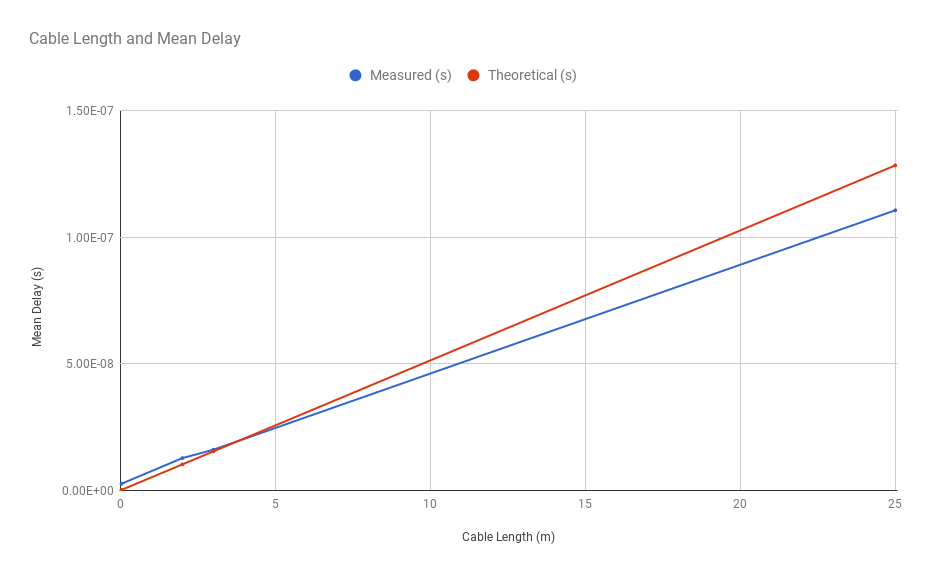
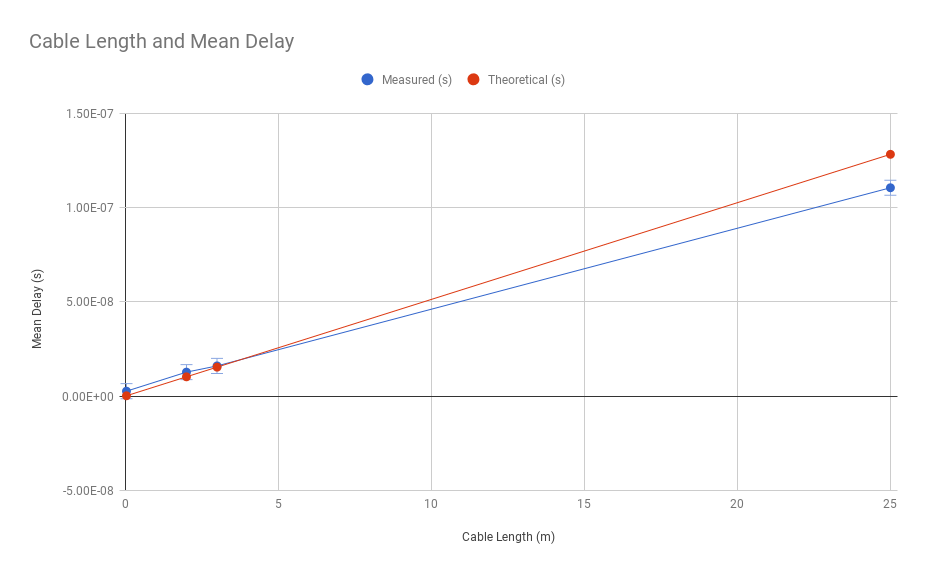
Redid evaluation

diff --git a/Report/Final/evaluation.tex b/Report/Final/evaluation.tex
@@ -1,62 +1,108 @@
 \chapter{Evaluation}\label{C:eval}
 
 \section{Accuracy Testing}
-\par To test the accuracy of the device, a loopback test was performed with different length of cables. This was 
-setup so that there was no switch between two ethernet measurement ports, only an ethernet cable. The test is to 
-ensure that the device is measuring the latency correctly, and able to detect the latency present in a specific 
-length of cable. Latency measured from the device can be compared with the theoretical value of the latency which 
-can be calculated using the following formula:
 
-\[Latency = \frac{L}{cV_f}\]
+The aim for the following tests is to assess how accurate the device is. For a device to be useful, it needs to be 
+able to measure latency with both accuracy and precision. Precision is the difference between repeated tests and 
+this is limited by the clock cycles provided to the timing module. Accuracy is how close the measured value is to 
+the theoretical value and dependant on the filtering and post processing done with the data received by the timing 
+module. 
 
-\par Where L is the length of the cable, c is the speed of light (299,792,458 m/s) and V\textsubscript{f} is 
-velocity factor of ethernet cables (0.65). 
-
-\par A very short cable (4 cm) was used to measure the processing time, a constant added to every measurement. 
-This processing time is the result of both Ethernet Phy’s converting between the two protocols (Differential Pairs 
-and RGMII). Performing measurements with the short cable produced a mean value of 440 ns where 0.2095 ns of the 
-measurement is attributed to the delay present in the cable.
-
-\par This processing time is then removed from subsequent tests, making the latency values produced by the device 
-purely the latency present in the cable. The goal from the tests is to ensure that the device is accurate to within
-4 ns, which is the smallest interval of time that can be measured.
-
-\par Tests were done with cables spanning 2 m, 3 m and 25 m long. These provided enough of a delay to measure with the
-device, and enough data to characterise the accuracy of what cables are used. The measured value was plotted with 
-the theoretical values of what delay would be present in the cable. To obtain the delay measurement, the test was 
-run for 20 seconds on the device, with a packet transmission frequency of 500 packets per second. The mean value
-of all packet latency measurements for that cable were then plotted versus the length of the cable.
+The results are expected to be the same over different tests, as the same cable will be used for each packet sent. 
+The latency should increase linearly with the length of the cable, as the speed of light and velocity factor is 
+constant.
 
 \begin{figure}[H]
     \begin{center}
-        \includegraphics[keepaspectratio,width=15cm]{Images/CableTesting}
-        \caption{Results from Accuracy Measurements}
-        \label{fig:accuracyMeasurements}
+        \includegraphics[keepaspectratio,height=8.5cm]{Images/TestSetup}
+        \caption{Measurement setup for 4 different tests (4 cm, 3 m, 25 m and 2 m)}
+        \label{fig:testSetup}
     \end{center}
 \end{figure}
 
-\par As shown in ~\ref{fig:accuracyMeasurements}, the results from the device show a linear trend in latency due to 
-length of the cable. The gradient difference of the theoretical line can be attributed to the fluctuation in 
-velocity factor through the different cables.
+To test the accuracy of the device, a loopback test was performed with different length of cables. This was setup so 
+that there was no switch between two ethernet measurement ports, only an ethernet cable. The test is to ensure that 
+the device is measuring the latency correctly, and able to detect the latency present in a specific length of cable. 
+Latency measured from the device can be compared with the theoretical value of the latency which can be calculated 
+using the following formula:
 
-\par The difference between the theoretical and measured value of the 25 m cable was 14 ns. This is not within the 
-accuracy margin which was required, hence 2 m and 3 m cables are used for the reliablity tests as the difference was below 2 ns.
+\[ Latency = \frac{L}{cV_f} \] 
+
+Where L is the length of the cable, c is the speed of light (299,792,458 m/s) and V\textsubscript{f} is velocity 
+factor of ethernet cables (0.65 (REFERENCE HERE)).
+
+A very short cable (4 cm) was used to measure the processing time, a constant added to every measurement. This 
+processing time is the result of both Ethernet Phys converting between the two protocols (Differential Pairs and 
+RGMII). A short cable produces an immeasurable latency which is beyond the precision of the device, deducing that 
+the latency measured from this test would be because of the constant processing on board the device. Performing 
+measurements with the short cable produced a mean value of 440 ns where 0.2095 ns of the measurement is attributed 
+to the delay present in the cable (5\% of the precision of the device). 
+
+This processing time is then removed from subsequent tests, making the latency values produced by the device purely 
+the latency present in the cable. The goal from the tests is to ensure that the device is accurate to within 4 ns, 
+which is the smallest interval of time that can be measured. 
+
+Tests were done with cables spanning 2 m, 3 m and 25 m long. These provided enough of a delay to measure with the 
+device and enough data to characterise latency present in the cables. The measured value was plotted with the 
+theoretical values of what delay would be present in the cable. To obtain the delay measurement, the test was run 
+for 20 seconds on the device, with a packet transmission frequency of 500 packets per second. The mean value of all 
+packet latency measurements for that cable were then plotted versus the length of the cable.
+
+\begin{figure}[H]
+    \begin{center}
+        \includegraphics[keepaspectratio,height=7.5cm]{Images/CableTesting}
+        \caption{Results from FPGA device latency accuracy measurements with 0.65 Velocity Factor}
+        \label{fig:cableTesting}
+    \end{center}
+\end{figure}
+
+As shown in Figure \ref{fig:cableTesting}, the results from the device show a linear trend in latency due to length 
+of the cable. The velocity factor was obtained from (CITE HERE) and a change in velocity factor could be a factor 
+for the discrepancies found in the gradients. The values have an error of ±4 ns as the points fluctuated above and 
+below a certain value and the average was plotted. There were no outliers during testing, showing how the device is 
+not prone to producing wildly different results.
+
+\begin{figure}[H]
+    \begin{center}
+        \includegraphics[keepaspectratio,height=7.5cm]{Images/CableTesting075}
+        \caption{Results from FPGA device latency accuracy measurements with 0.75 Velocity Factor}
+        \label{fig:cableTesting075}
+    \end{center}
+\end{figure}
+
+An interesting point in Figure \ref{fig:cableTesting} is that the 25 m measurement was less than the theoretical 
+value. The velocity factor appears to be the main cause of this difference, as the speed of light cannot change and 
+different cables tend to have different velocity factors and this is shown in Figure \ref{fig:cableTesting075}. With 
+the velocity factor altered to 0.75, this makes device appear more accurate. The standard deviation of the 25 m test 
+is 2.4 ns, with a range of 8 ns.
+
+From the results given, it is accurate to within 4 ns when measuring short ranged cables of 2-3 m and the longer the 
+cables become, the worse the measurement becomes. This could be caused by discrepancies in the velocity factor of 
+ethernet cables.
 
 \section{Reliability Testing}
 
-\par To test reliability of the device, repeated tests were performed to show that results would stay consistent
-from test to test. As the goal of the project was to measure the latency in network swtiches, these tests were to 
-measure the latency through a network switch and provide repeatable results. These results did not neccessarily have
-to be accurate, as the accuracy was determined in the test in accuracy testing, hence these results are only to 
-measure the reliability.
+Reliability is a key project goal of this device and to test this, a real-world scenario was replicated. As the 
+project is to create a device which can measure reliably, the following tests would be how similar independent tests 
+measure the latency. If repeated tests are done on a reliable device, they should be around the same measurement 
+value.
 
-\par Results from the tests were compared to an existing DPDK software based latency measurement method. This was 
-run on two separate machines which had clocks synchronoised using PTP protocol and as a result, the timings varied 
-significantly. This comparision was to show that the software based methods have flexibility that hardware methods
-are missing while also performing unreliably. The DPDK based system was compared to the FPGA based device by producing
-a packet on one machine, then sending the packet through the network switch to arrive at the other machine, and the
-time delta is returned from both machines. The FPGA device also performed the same task with the same cables, but 
-the two connections arrived at the same machine.
+To test reliability of the device, repeated tests were performed to understand how consistent the values are from 
+test to test. As the goal of the project was to measure the latency in network switches, these tests were to measure 
+the latency through a network switch and provide repeatable results. The results do not need to be accurate, as the 
+accuracy was determined in the test in accuracy testing, hence these results are only to measure the reliability. 
+
+Results from the tests were compared to an existing PF\textunderscore RING software based latency measurement method.
+This was run on two separate machines which had clocks synchronised using PTP protocol and as a result, the timings 
+varied significantly. This comparison was to show that the software based methods have flexibility that hardware 
+methods are missing while also performing unreliably. 
+
+The PF\textunderscore RING based system was compared to the FPGA based device by producing a packet on one machine, 
+then sending the packet through the network switch to arrive at the other machine, and the time delta is returned 
+from both machines. The FPGA device also performed the same task with the same cables, but the two connections 
+arrived at the same machine. This test is assumed to take a constant time which would not change over independent 
+tests as the network switch would be not switching extra traffic and the MAC learning table inside the device would 
+have learned the route for the network packets by the first network packet. 
 
 \begin{figure}[H]
     \begin{center}
@@ -66,6 +112,11 @@ the two connections arrived at the same machine.
     \end{center}
 \end{figure}
 
+Results from running PF\textunderscore RING latency measurements shows the spread in measurements due to 
+inconsistencies in the delay from getting a measurement value. As this is a software based platform, there are many 
+queues and buffers inside both the operating system and the hardware interfaces. This inconsitency more detailed in 
+the introduction to the report.
+
 \begin{figure}[H]
     \begin{center}
         \includegraphics[keepaspectratio,height=7.5cm]{Images/TestPlot}
@@ -74,8 +125,45 @@ the two connections arrived at the same machine.
     \end{center}
 \end{figure}
 
-\par As seen in the results, the FPGA device produced a value lower than the mean value. This is very interesting, as
-it is an unexpected result. Lower values produced by the device could be attributed to the device misinterpreting 
-the reception of a previous test as the end of the current test. Regardless of this result, the device produced over 
-10 times lower standard deviation compared with the results from the DPDK test setup. This can be concluded as a 
-successful test.
+Data from the FPGA device showed that the measurements were only under estimated, and the device never overestimated.
+This is interesting as the device also had some measurements where the latency was 0 ns through the switch, which is 
+impossible to achieve. The spread over all the measurements was quite lower than the PF\textunderscore RING 
+statistics, and overall the mean was 36\% of the PF\textunderscore RING measurement mean. 
+
+\begin{figure}[H]
+    \begin{center}
+        \includegraphics[keepaspectratio,height=7.5cm]{Images/Comparision}
+        \caption{Comparision of the results from PF\textunderscore RING and the FPGA device}
+        \label{fig:comparision}
+    \end{center}
+\end{figure}
+
+Figure \ref{fig:comparision} shows the difference between the two testing methods. As seen, the PF\textunderscore 
+RING measurements show 2.8x increase in mean latency, most likely produced by the overhead of using an operating 
+system and CPU stack. These tests are only meant to measure the difference in spread of the measurement, so to 
+counter the discrepancies in the means, Coefficient of Variation is used to remove the varying factor of the mean 
+causing a change in standard deviation.
+
+\begin{table}[h!]
+    \begin{center}
+        \begin{tabular}{ |p{9cm}||p{2.5cm}|p{2.5cm}| }
+            \hline
+            Device & FPGA Device & PF\textunderscore RING\\
+            \hline
+            Standard Deviation & 1878.23 & 20754.18\\
+            Mean & 25989.76 & 72431.35\\
+            Coefficient of Variation & 0.0723 & 0.2865\\
+            Standard Deviation Improvement vs PF\textunderscore RING & 11.04986 & 1\\
+            Coefficient of Variation Improvement vs PF\textunderscore RING & 3.9649 & 1\\
+            \hline
+        \end{tabular}
+        \caption{Statistics of results}
+        \label{table:stats}
+    \end{center}
+\end{table}
+
+Comparing the two from a statistical point of view, it can be concluded that the FPGA device is more capable of 
+producing a more reliable measurement. The standard deviation of the FPGA device is over 11x of a reduction over the 
+software based PF\textunderscore RING. The discrepancy in the means is something to note, but not part of this test. 
+The accuracy of PF\textunderscore RING could be future test, to understand if the device is as accurate as the FPGA 
+device, but the aim for these tests was to compare the repeatability of latency measurements. 
